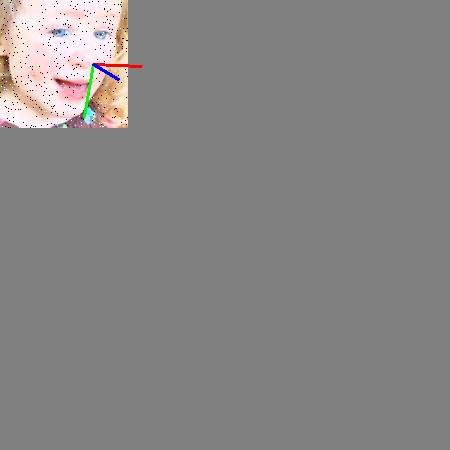
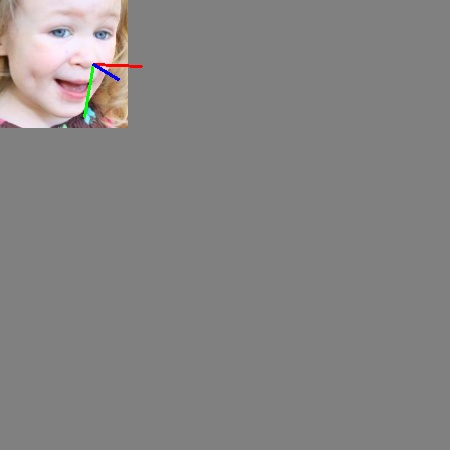
augmentation

Changed region(s): [[0.0, 0.0, 0.3111, 0.3111]]

diff --git a/data_generator/data_generator.py b/data_generator/data_generator.py
@@ -8,12 +8,13 @@ from os.path import join
 
 class DataGenerator(Sequence):
     def __init__(self, list_IDs, labels, batch_size=32, input_shape=(128, 128, 3),
-                 shuffle=True, dataset_path='../../Datasets/300W_AFLW/'):
+                 shuffle=True, augmentation=True, dataset_path='../../Datasets/300W_AFLW/'):
         self.list_IDs = list_IDs
         self.labels = labels
         self.batch_size = batch_size
         self.input_shape = input_shape
         self.shuffle = shuffle
+        self.augmentation = augmentation
         self.dataset_path = dataset_path
         self.pca = PCA((450, 450, 3))
         self.indices = np.arange(len(self.list_IDs))
@@ -49,14 +50,17 @@ class DataGenerator(Sequence):
             pt3d = self.pca(np.expand_dims(parameters_3DMM, 0))
             image, roi_box = crop(image, pt3d)
             image, aspect_ratio = resize_image(image, self.input_shape)
+            
             # Augment image
-            aug_type = np.random.choice(['color', 'gray', 'None'])
-            if aug_type == 'color':
-                image = colorjitter(image)
-                image = noisy(image)
-                image = filters(image)
-            elif aug_type == 'gray':
-                image = gray_img(image)
+            if self.augmentation:
+                aug_type = np.random.choice(['color', 'gray', 'None'])
+                if aug_type == 'color':
+                    image = colorjitter(image)
+                    image = noisy(image)
+                    image = filters(image)
+                elif aug_type == 'gray':
+                    image = gray_img(image)
+            
             image = normalization(image)
             # Label preprocessing
             sx, sy, ex, ey = roi_box

diff --git a/input_pipeline.py b/input_pipeline.py
@@ -21,7 +21,7 @@ elif test == '300w':
   list_ids = ["300W-LP/300W_LP/AFW/AFW_134212_1_2", "300W-LP/300W_LP/HELEN_Flip/HELEN_1269874180_1_0",\
       "300W-LP/300W_LP/AFW/AFW_4512714865_1_3", "300W-LP/300W_LP/LFPW_Flip/LFPW_image_train_0737_13",
         "300W-LP/300W_LP/LFPW_Flip/LFPW_image_train_0047_4"]
-
+training_data_generator.augmentation = False
 images, y = training_data_generator.data_generation(list_ids)
 
 
@@ -45,10 +45,3 @@ for i in range(len(list_ids)):
 
 model = Synergy(input_shape=input_shape)
 model.summary()
-
-# model.save_weights("checkpoints/model_synergy")
-# print()
-
-# model_test = Synergy(input_shape=input_shape)
-# model_test.load_weights("checkpoints/model_synergy")
-# print(model_test.summary())
